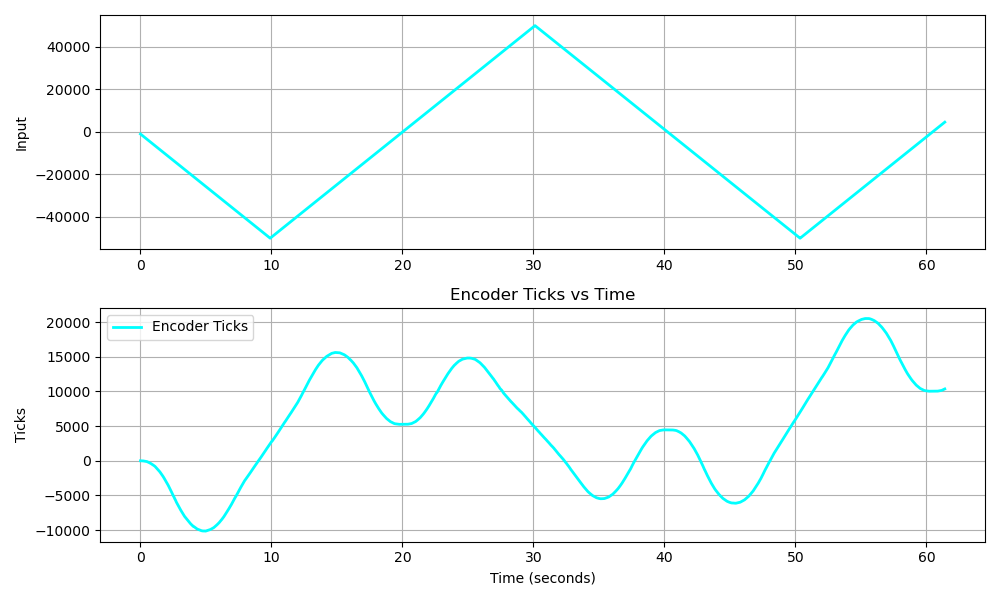
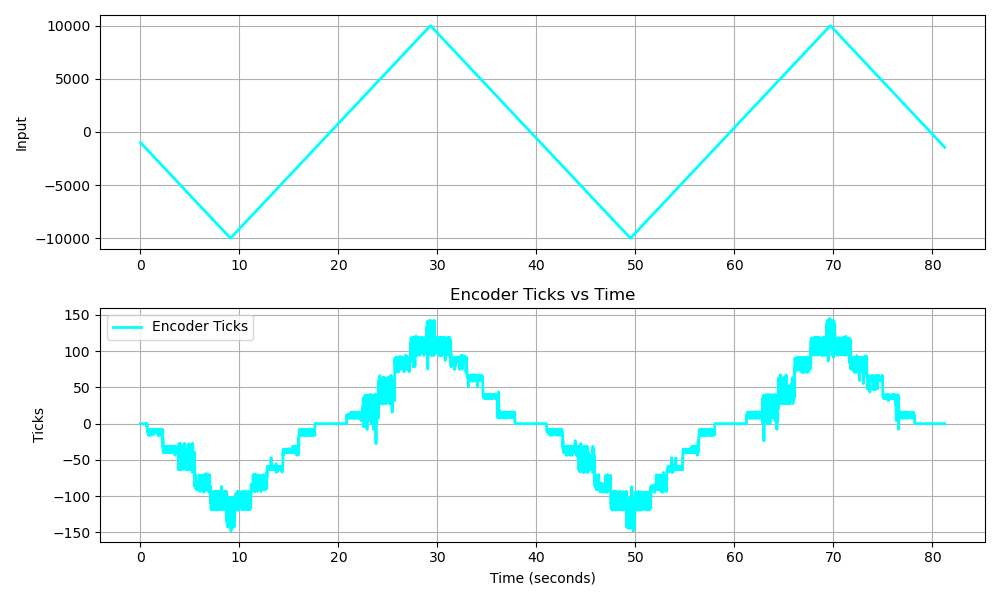
now plotting speed

diff --git a/hardware/deadband_compensation/main.py b/hardware/deadband_compensation/main.py
@@ -42,6 +42,7 @@ processor = EncoderProcessor(pulses_per_rev=2262)
 ticks = []
 times = []
 inputs = []
+velocities = []
 
 while running:  # Use flag instead of True
     try:
@@ -53,12 +54,13 @@ while running:  # Use flag instead of True
         ticks.append(raw_ticks)
         times.append(loop_start)
         inputs.append(triangle_input)
+        velocities.append(processor.get_speed())
 
         # --- Control logic (keep this under 8ms) ---
         motor.set_speed(triangle_input)
-        triangle_input += sign_input*50
+        triangle_input += sign_input*10
 
-        sign_input = -sign_input if abs(triangle_input) >= 50000 else sign_input
+        sign_input = -sign_input if abs(triangle_input) >= 10000 else sign_input
 
         # -------------------------------------------
 
@@ -92,7 +94,7 @@ plt.ylabel('Input')
 plt.grid()
 
 plt.subplot(2,1,2)
-plt.plot(times_zeroed, ticks, label='Encoder Ticks', color='cyan', linewidth=2)
+plt.plot(times_zeroed, velocities, label='Encoder Ticks', color='cyan', linewidth=2)
 plt.xlabel('Time (seconds)')
 plt.ylabel('Ticks')
 plt.title('Encoder Ticks vs Time')
